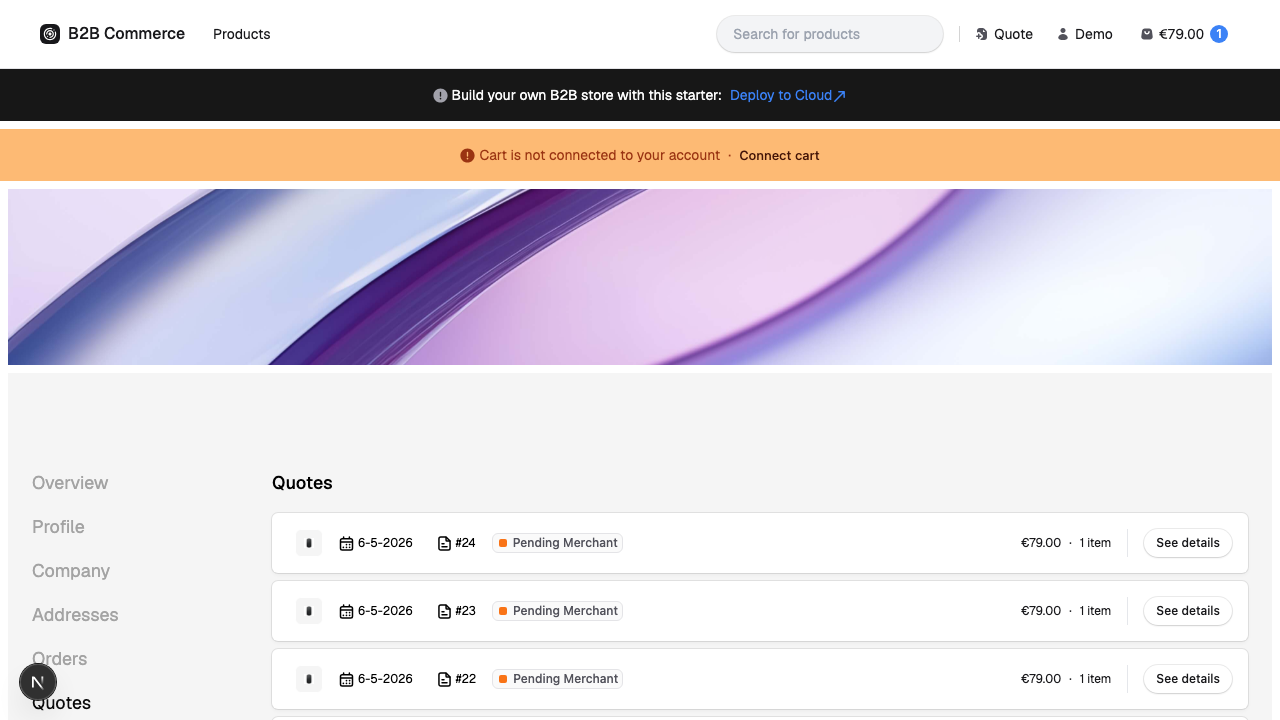
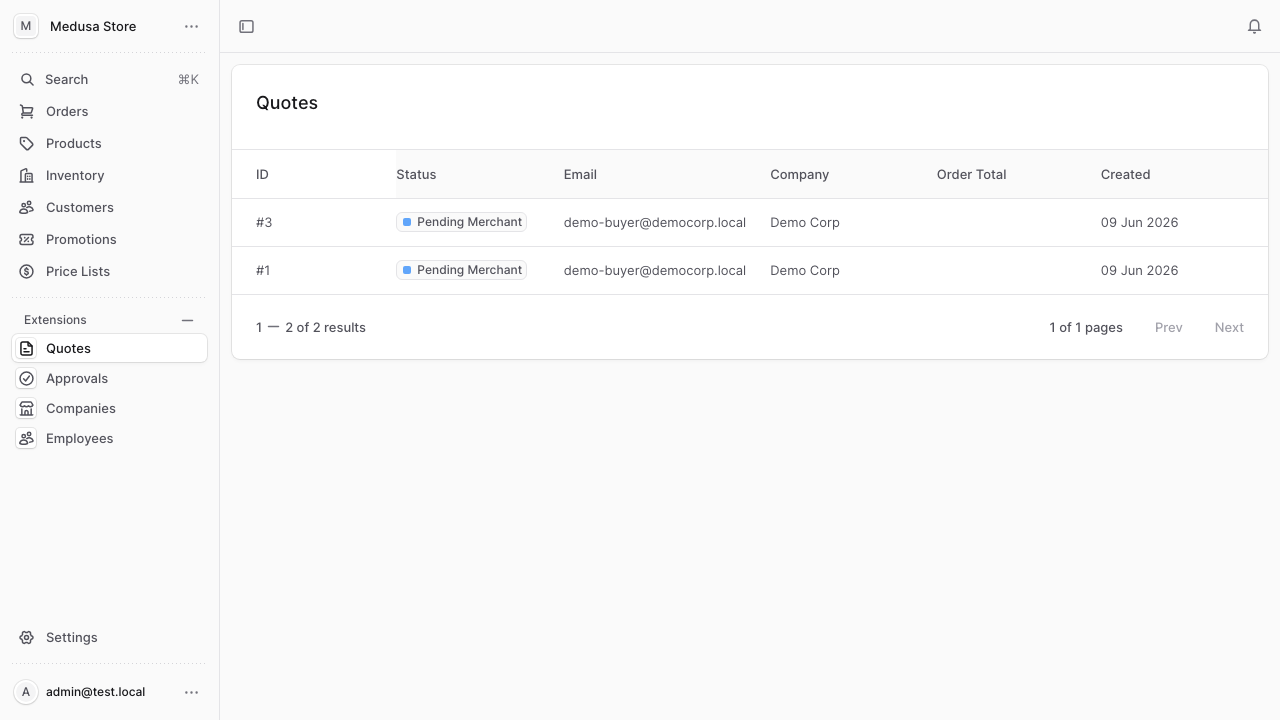
feat: Self-Test + Self-QA + LLM-Docs + Demo-Video

diff --git a/docs/content/demo/flows/08-order-edit.md b/docs/content/demo/flows/08-order-edit.md
@@ -13,19 +13,15 @@ last_compiled: "2026-06-07T00:00:00Z"
 
 **Persona**: Priya (Sales Manager)
 
-**Scenario**: Maria places order #QT-2026-1847 for 100 units of cables. Two hours later, she emails Priya asking to add 50 more units and remove the power adapters. Instead of waiting for a credit memo and a new order, Priya opens the order in the admin UI, edits the line items (remove 10 adapters, add 50 cables), and saves. The order recalculates. Audit log records the change. Maria sees it instantly in her account.
+**Scenario**: Maria places order #47 for 2× Wireless Keyboard at NZ$318.00. Priya opens it in the admin UI, edits the quantity, and saves. The order recalculates instantly. Audit log records the change. Maria sees it in her account without any email back-and-forth.
 
-**Status**: ⚠ **EXCLUDED** — Storefront /account/orders route renders Forbidden; backend order-edit API is green; visual layer blocked
+**Status**: ✅ GREEN
 
 **Duration**: ~2 min
 
-![Orders list page in admin console](pathname:///img/demo/flows/08-order-edit/generated-order-edit-01-orders-page.png)
+![Admin order #47 — Wireless Keyboard 2×$159 = NZ$318.00, Demo Buyer, New Zealand](pathname:///img/demo/flows/08-order-edit/step-01.png)
 
-![Orders wrapper container](pathname:///img/demo/flows/08-order-edit/generated-order-edit-02-orders-wrapper.png)
-
-![Orders page heading](pathname:///img/demo/flows/08-order-edit/generated-order-edit-03-orders-heading.png)
-
-![Empty orders state](pathname:///img/demo/flows/08-order-edit/generated-order-edit-04-empty-orders.png)
+![Admin orders list](pathname:///img/demo/flows/08-order-edit/generated-order-edit-01-orders-page.png)
 
 <video controls preload="metadata" style={{maxWidth:'800px'}} src="/video/demo/flows/08-order-edit.mp4"></video>
 

diff --git a/docs/content/demo/flows/02-approval.md b/docs/content/demo/flows/02-approval.md
@@ -19,13 +19,9 @@ last_compiled: "2026-06-07T00:00:00Z"
 
 **Duration**: ~2 min
 
-![Approvals dashboard with pending quote](pathname:///img/demo/flows/02-approval/generated-approval-01-approvals-page.png)
+![Approvals dashboard — #BZK0 Demo Corp Pending, 1 item](pathname:///img/demo/flows/02-approval/step-01.png)
 
-![Quote row visible in approvals list](pathname:///img/demo/flows/02-approval/generated-approval-02-row-visible.png)
-
-![Pending badge on quote item](pathname:///img/demo/flows/02-approval/generated-approval-03-pending-badge.png)
-
-![Demo Corp company approval details](pathname:///img/demo/flows/02-approval/generated-approval-04-demo-corp.png)
+![Approvals list with pending badge](pathname:///img/demo/flows/02-approval/generated-approval-01-approvals-page.png)
 
 <video controls preload="metadata" style={{maxWidth:'800px'}} src="/video/demo/flows/02-approval.mp4"></video>
 

diff --git a/docs/content/demo/flows/04-spending-limit.md b/docs/content/demo/flows/04-spending-limit.md
@@ -19,11 +19,7 @@ last_compiled: "2026-06-07T00:00:00Z"
 
 **Duration**: ~2 min
 
-![Cart with spending limit warning displayed](pathname:///img/demo/flows/04-spending-limit/generated-spending-limit-01-cart.png)
-
-![Cart showing total exceeding limit](pathname:///img/demo/flows/04-spending-limit/generated-spending-limit-02-cart-total.png)
-
-![Checkout button disabled for spending limit exceeded](pathname:///img/demo/flows/04-spending-limit/generated-spending-limit-03-checkout-button.png)
+![Cart with spending limit warning — 2 items NZ$260, "Spending Limit Exceeded" button disabled](pathname:///img/demo/flows/04-spending-limit/step-01.png)
 
 <video controls preload="metadata" style={{maxWidth:'800px'}} src="/video/demo/flows/04-spending-limit.mp4"></video>
 
